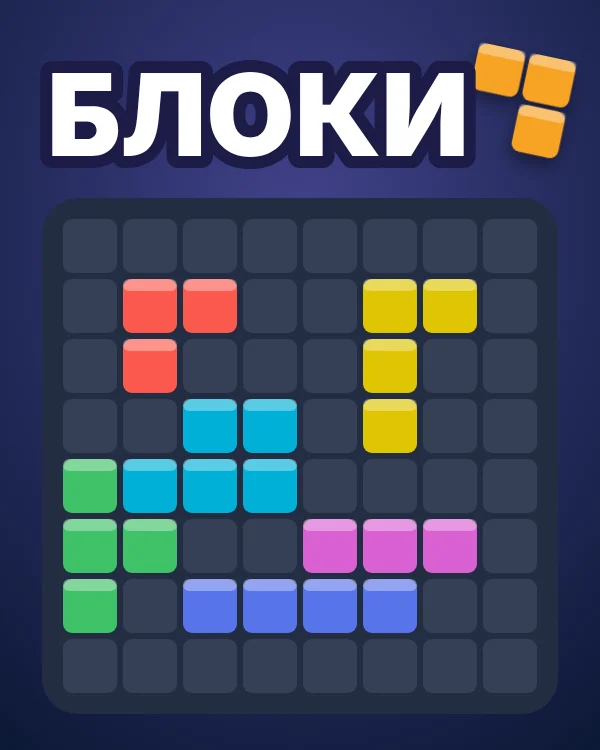
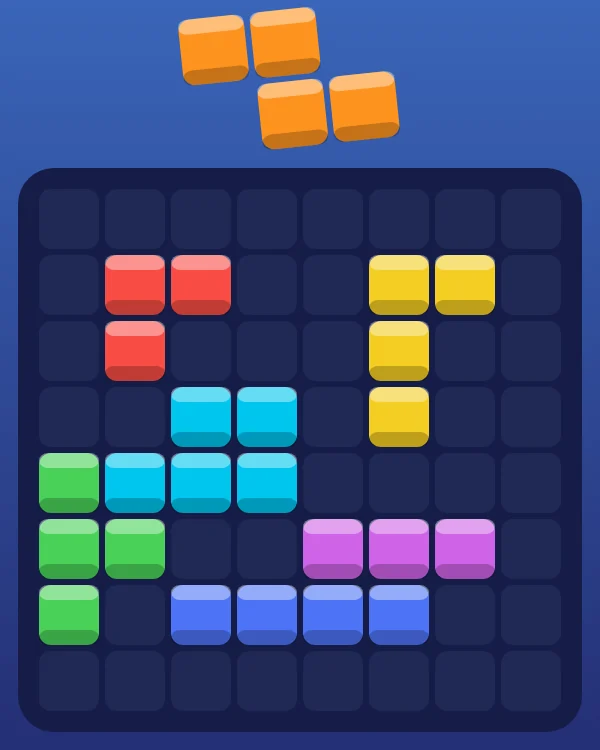
Блоки: удобные фигуры при тесноте, только перетаскивание, вид как в Block Blast, обложка без надписи
- Когда места мало (меньше 34 свободных клеток) или случайные фигуры не встают, выдаются удобные: все три помещаются по очереди, лучше — закрывающие линии
- Управление только перетаскиванием (палец или мышь), клавиатурное управление убрано
- Вид: синий фон, тёмно-синее поле, объёмные кубики с бликом, крупный счёт по центру, рекорд с короной, зелёные кнопки; одинаково в светлой и тёмной теме
- Обложка: только блоки, без слова; над полем названия нет

Claude-Session: https://claude.ai/code/session_01Q8vS7bQC82bwrtDSY1LVK3

diff --git a/games/blocks/ui.js b/games/blocks/ui.js
@@ -2,14 +2,14 @@
 // Все надписи берутся из словаря (games/blocks/ru.js) по ключам games.blocks.*.
 // Поле и лоток рисуются один раз при входе в партию, дальше меняются только классы клеток (перетаскивание идёт без перерисовки страницы).
 // Перетаскивание: фигура едет над пальцем (на сенсорном экране выше на две клетки, чтобы её было видно), на поле — тень и подсветка линий.
-// Клавиатура: 1–3 — выбрать фигуру, стрелки — двигать, Enter — поставить, Esc — отменить.
+// Управление только перетаскиванием (палец или мышь), как в Block Blast. Вид игры свой, синий, в любой теме сайта.
 var CATALOG_URL = '../../index.html';
 var SAVE_KEY = 'game:blocks:save', BEST_KEY = 'game:blocks:best';
 var B = window.Blocks, W = window.PlatformWallet, N = B.SIZE;
 var tr = function (key, params) { return window.I18n.t('games.blocks.' + key, params); };
 
 var appEl = document.getElementById('app');
-var app = { screen: 'start', modal: null, game: null, best: num(window.PlatformStorage.get(BEST_KEY, 0)), toast: null, sel: -1, cur: { x: 0, y: 0 } };
+var app = { screen: 'start', modal: null, game: null, best: num(window.PlatformStorage.get(BEST_KEY, 0)), toast: null };
 var drag = null;                 // { slot, el, dx, dy, x, y, ok, pointerId }
 
 function num(v) { v = Number(v); return isFinite(v) && v >= 0 ? Math.floor(v) : 0; }
@@ -22,13 +22,6 @@ var GRID_SVG = '<svg viewBox="0 0 24 24" fill="none" stroke="currentColor" strok
   '<rect x="4" y="4" width="6.5" height="6.5" rx="2"/><rect x="13.5" y="4" width="6.5" height="6.5" rx="2"/>' +
   '<rect x="4" y="13.5" width="6.5" height="6.5" rx="2"/><rect x="13.5" y="13.5" width="6.5" height="6.5" rx="2"/></svg>';
 function catalogLinkHtml() { return '<a class="theme-btn" href="' + CATALOG_URL + '" data-leave aria-label="' + esc(tr('toCatalog')) + '" title="' + esc(tr('toCatalog')) + '">' + GRID_SVG + '</a>'; }
-function themeButtonHtml() {
-  var dark = window.PlatformTheme.isDark();
-  var icon = dark
-    ? '<svg viewBox="0 0 24 24" fill="none" stroke="currentColor" stroke-width="2" stroke-linecap="round" aria-hidden="true"><circle cx="12" cy="12" r="4"/><path d="M12 2v2M12 20v2M4.9 4.9l1.4 1.4M17.7 17.7l1.4 1.4M2 12h2M20 12h2M4.9 19.1l1.4-1.4M17.7 6.3l1.4-1.4"/></svg>'
-    : '<svg viewBox="0 0 24 24" fill="none" stroke="currentColor" stroke-width="2" stroke-linecap="round" stroke-linejoin="round" aria-hidden="true"><path d="M21 13.2A8.5 8.5 0 1 1 10.8 3a6.7 6.7 0 0 0 10.2 10.2z"/></svg>';
-  return '<button class="theme-btn" data-act="theme" aria-label="' + esc(window.I18n.t(dark ? 'theme.toLight' : 'theme.toDark')) + '">' + icon + '</button>';
-}
 function balanceChipHtml() {
   var now = W.getBalance(), seen = W.shownBalance();
   return '<div class="bal" aria-label="' + esc(tr('balance', { n: fmtNum(now), unit: window.I18n.plural(now, 'wallet.unit') })) + '"><span class="coin" aria-hidden="true"></span><b data-bal>' + fmtNum(seen) + '</b></div>';
@@ -37,7 +30,7 @@ function balanceChipHtml() {
 // ===== Партия =====
 function loadSaved() { try { return B.sanitize(window.PlatformStorage.get(SAVE_KEY, null)); } catch (e) { return null; } }
 function save() { if (app.game && !app.game.over) window.PlatformStorage.set(SAVE_KEY, B.plain(app.game)); else window.PlatformStorage.remove(SAVE_KEY); }
-function newGame() { app.game = B.create(); app.modal = null; app.toast = null; app.sel = -1; save(); }
+function newGame() { app.game = B.create(); app.modal = null; app.toast = null; save(); }
 function noteBest() { if (app.game.score > app.best) { app.best = app.game.score; window.PlatformStorage.set(BEST_KEY, app.best); } }
 // Награда за очки 1000, 2500, 5000 — один раз за партию каждая; уровень нужен серверу, чтобы выдать её по своей таблице
 function rewardMilestones() {
@@ -59,7 +52,7 @@ function placeAt(slot, x, y) {
   var colors = before.grid.slice();                       // цвета клеток до очистки (вместе с только что поставленной фигурой)
   r.placed.forEach(function (i) { colors[i] = piece.color; });
   if (before.moves === 0) { W.markPlayed(); W.countPlay('blocks'); }      // партия началась с первого хода
-  app.game = r.state; app.sel = -1;
+  app.game = r.state;
   noteBest(); rewardMilestones(); save();
   paintBoard({ placed: r.placed, cleared: r.cleared.cells, colors: colors });
   paintTray(); renderHud();
@@ -72,7 +65,7 @@ function placeAt(slot, x, y) {
 var LOGO = '<div class="logo" aria-hidden="true">' + [1, 1, 0, 3, 0, 1, 2, 3, 0, 2, 2, 3].map(function (c) { return '<i class="' + (c ? 'b c' + c : '') + '"></i>'; }).join('') + '</div>';
 function startHtml() {
   var saved = app.game && !app.game.over && app.game.moves > 0, rw = W.CONFIG.rewards.blocks;
-  return '<div class="start"><div class="brand-row"><div class="top-actions">' + catalogLinkHtml() + '</div><div class="top-actions">' + themeButtonHtml() + '</div></div>' +
+  return '<div class="start"><div class="brand-row"><div class="top-actions">' + catalogLinkHtml() + '</div></div>' +
     '<div class="hero">' + LOGO + '<h1>' + esc(tr('title')) + '</h1><p class="muted-text">' + esc(tr('tagline')) + '</p></div>' +
     '<div class="scores"><div class="score-box"><small>' + esc(tr('best')) + '</small><b>' + fmtNum(app.best) + '</b></div>' +
       (saved ? '<div class="score-box"><small>' + esc(tr('saved')) + '</small><b>' + fmtNum(app.game.score) + '</b></div>' : '') + '</div>' +
@@ -85,41 +78,36 @@ function gameHtml() {
   var cells = '';
   for (var i = 0; i < N * N; i++) cells += '<i data-c="' + i + '"></i>';
   return '<div class="topbar"><div class="top-actions"><button class="theme-btn" data-act="menu" aria-label="' + esc(tr('toMenu')) + '">←</button></div>' +
-      '<div class="game-title">' + esc(tr('title')) + '</div>' +
       '<div class="top-actions" data-top>' + topActionsHtml() + '</div></div>' +
     '<div class="hud" data-hud></div>' +
     '<div class="board-wrap"><div class="board" role="application" tabindex="0" aria-label="' + esc(tr('board.label')) + '" aria-describedby="board-live">' + cells + '<div class="fx" aria-hidden="true"></div></div></div>' +
     '<div class="tray" role="group" aria-label="' + esc(tr('tray.label')) + '">' + [0, 1, 2].map(function (k) { return '<button class="slot" data-slot="' + k + '"></button>'; }).join('') + '</div>' +
     '<div class="msg" data-msg></div><div class="live" id="board-live" aria-live="polite"></div>';
 }
-function topActionsHtml() { return balanceChipHtml() + '<button class="theme-btn" data-act="rules" aria-label="' + esc(tr('rules')) + '">?</button>' + themeButtonHtml(); }
+function topActionsHtml() { return balanceChipHtml() + '<button class="theme-btn" data-act="rules" aria-label="' + esc(tr('rules')) + '">?</button><button class="theme-btn" data-act="restart" aria-label="' + esc(tr('newGame')) + '" title="' + esc(tr('newGame')) + '">↻</button>'; }
 function renderHud() {
   var h = appEl.querySelector('[data-hud]');
   if (!h || !app.game) return;
   var g = app.game;
-  h.innerHTML = '<div class="score-box"><small>' + esc(tr('score')) + '</small><b>' + fmtNum(g.score) + '</b></div>' +
-    '<div class="score-box"><small>' + esc(tr('best')) + '</small><b>' + fmtNum(app.best) + '</b></div>' +
-    (g.combo > 1 ? '<div class="combo" aria-label="' + esc(tr('combo.label', { n: g.combo })) + '">×' + g.combo + '</div>' : '') +
-    '<button class="btn-secondary small" data-act="restart">' + esc(tr('newGame')) + '</button>';
+  h.innerHTML = '<div class="best" aria-label="' + esc(tr('best') + ': ' + app.best) + '"><span class="crown" aria-hidden="true">♛</span>' + fmtNum(app.best) + '</div>' +
+    '<div class="score" aria-label="' + esc(tr('score') + ': ' + g.score) + '">' + fmtNum(g.score) + '</div>' +
+    '<div class="combo-slot">' + (g.combo > 1 ? '<span class="combo" aria-label="' + esc(tr('combo.label', { n: g.combo })) + '">' + esc(tr('combo', { n: g.combo })) + '</span>' : '') + '</div>';
   // сообщение о награде — под фигурами, на месте подсказки (поле не закрывает)
   var m = appEl.querySelector('[data-msg]');
   if (m) m.innerHTML = app.toast ? '<div class="toast' + (app.toast.dim ? ' dim' : '') + '" role="status">' + esc(app.toast.text) + '</div>'
-    : '<p class="hint-touch muted-text">' + esc(tr('hint.touch')) + '</p><p class="hint-keys muted-text">' + esc(tr('hint.keys')) + '</p>';
+    : '<p class="hint">' + esc(tr('hint')) + '</p>';
 }
 // Поле: занятые клетки цветом; при перетаскивании — тень фигуры и подсветка линий, которые исчезнут
 function paintBoard(anim) {
   var cells = appEl.querySelectorAll('.board [data-c]'), g = app.game.grid;
-  var ghost = {}, clear = {}, bad = false, dist = {};
-  var target = drag && drag.slot >= 0 ? drag : (app.sel >= 0 ? { slot: app.sel, x: app.cur.x, y: app.cur.y, kb: true } : null);
+  var ghost = {}, clear = {}, dist = {};
+  var target = drag && drag.slot >= 0 ? drag : null;
   if (target && target.x !== null) {
     var p = app.game.tray[target.slot], pv = p ? B.preview(g, p, target.x, target.y) : null;
     if (pv) {
       p.cells.forEach(function (c) { ghost[(target.y + c[1]) * N + target.x + c[0]] = p.color; });
       pv.rows.forEach(function (r) { for (var c = 0; c < N; c++) clear[r * N + c] = true; });
       pv.cols.forEach(function (c) { for (var r = 0; r < N; r++) clear[r * N + c] = true; });
-    } else if (target.kb && p) {
-      p.cells.forEach(function (c) { var x = target.x + c[0], y = target.y + c[1]; if (x < N && y < N) ghost[y * N + x] = p.color; });
-      bad = true;
     }
   }
   if (anim && anim.cleared && anim.cleared.length) {
@@ -131,9 +119,9 @@ function paintBoard(anim) {
   for (var i = 0; i < cells.length; i++) {
     var el = cells[i], v = g[i], cls = '';
     if (v) cls = 'b c' + v;
-    else if (ghost[i]) cls = 'ghost c' + ghost[i] + (bad ? ' bad' : '');
+    else if (ghost[i]) cls = 'ghost c' + ghost[i];
     if (v && clear[i]) cls += ' will';
-    if (ghost[i] && clear[i] && !bad) cls += ' will';
+    if (ghost[i] && clear[i]) cls += ' will';
     if (anim && anim.placed && anim.placed.indexOf(i) >= 0 && v) cls += ' pop';
     el.className = cls;
     el.style.animationDelay = '';
@@ -177,9 +165,8 @@ function paintTray() {
     var fits = p && B.fitsAnywhere(app.game.grid, p);
     el.innerHTML = p ? pieceHtml(p, true) : '';
     el.disabled = !p;
-    el.className = 'slot' + (p && !fits ? ' nofit' : '') + (app.sel === k ? ' sel' : '') + (drag && drag.slot === k ? ' lifted' : '');
+    el.className = 'slot' + (p && !fits ? ' nofit' : '') + (drag && drag.slot === k ? ' lifted' : '');
     el.setAttribute('aria-label', p ? tr(fits ? 'tray.piece' : 'tray.nofit', { n: k + 1, c: p.cells.length }) : tr('tray.empty', { n: k + 1 }));
-    el.setAttribute('aria-pressed', String(app.sel === k));
   }
 }
 
@@ -223,7 +210,7 @@ function render() {
   if (app.screen === 'game') { paintBoard(); paintTray(); renderHud(); }
   renderModal();
 }
-function openGame() { app.screen = 'game'; app.modal = app.game.over ? 'over' : null; app.sel = -1; render(); }
+function openGame() { app.screen = 'game'; app.modal = app.game.over ? 'over' : null; render(); }
 function toMenu() { cancelDrag(); app.screen = 'start'; app.modal = null; render(); }
 
 // ===== Перетаскивание =====
@@ -239,7 +226,6 @@ function startDrag(slot, e) {
   var touch = e.pointerType !== 'mouse';
   // фигура едет над пальцем: её середина по горизонтали под пальцем, а низ — выше пальца на клетку (на сенсорном экране)
   drag = { slot: slot, el: el, w: s.w * size, h: s.h * size, lift: touch ? s.h * size + size * 1.2 : s.h * size / 2, x: null, y: null, pointerId: e.pointerId };
-  app.sel = -1;
   moveDrag(e.clientX, e.clientY);
   paintTray();
 }
@@ -287,29 +273,9 @@ appEl.addEventListener('click', function (e) {
   }
 });
 document.addEventListener('keydown', function (e) {
-  if (e.key === 'Escape') {
-    if (app.modal && app.modal !== 'over') { app.modal = null; renderModal(); return; }
-    if (app.sel >= 0) { app.sel = -1; paintBoard(); paintTray(); }
-    return;
-  }
-  if (app.screen !== 'game' || app.modal || !app.game || e.altKey || e.ctrlKey || e.metaKey) return;
-  if (/^[1-3]$/.test(e.key)) {
-    var k = Number(e.key) - 1;
-    if (app.game.tray[k]) { app.sel = app.sel === k ? -1 : k; app.cur = { x: 0, y: 0 }; paintBoard(); paintTray(); }
-    e.preventDefault(); return;
-  }
-  if (app.sel < 0) return;
-  var p = app.game.tray[app.sel], s = B.sizeOf(p), mv = { ArrowLeft: [-1, 0], ArrowRight: [1, 0], ArrowUp: [0, -1], ArrowDown: [0, 1] }[e.key];
-  if (mv) {
-    app.cur.x = Math.max(0, Math.min(N - s.w, app.cur.x + mv[0])); app.cur.y = Math.max(0, Math.min(N - s.h, app.cur.y + mv[1]));
-    paintBoard(); e.preventDefault();
-  } else if (e.key === 'Enter' || e.key === ' ') {
-    e.preventDefault();
-    if (!placeAt(app.sel, app.cur.x, app.cur.y)) { var b = appEl.querySelector('.board'); if (b && !reduced()) { b.classList.remove('nope'); void b.offsetWidth; b.classList.add('nope'); } }
-  }
+  if (e.key === 'Escape' && app.modal && app.modal !== 'over') { app.modal = null; renderModal(); }
 });
 
-window.PlatformTheme.onChange(function () { render(); });
 W.onShown(function (v) { var els = appEl.querySelectorAll('.bal [data-bal]'); for (var i = 0; i < els.length; i++) els[i].textContent = fmtNum(v); });
 window.addEventListener('resize', function () { cancelDrag(); });
 app.game = loadSaved();

diff --git a/games/blocks/logic.js b/games/blocks/logic.js
@@ -67,20 +67,76 @@
     for (var y = 0; y < N; y++) for (var x = 0; x < N; x++) if (canPlace(grid, piece, x, y)) return true;
     return false;
   }
-  // Новые три фигуры: случайные, но хоть одна должна помещаться, если такая вообще бывает (иначе партия кончалась бы внезапно)
+  // Поставить фигуру на копию поля и убрать заполненные линии → { grid, lines }
+  function applyVirtual(grid, piece, x, y) {
+    var g = grid.slice(), lines = 0, k, j, full;
+    piece.cells.forEach(function (c) { g[(y + c[1]) * N + x + c[0]] = 1; });
+    var clear = {};
+    for (k = 0; k < N; k++) {
+      full = true; for (j = 0; j < N; j++) if (!g[k * N + j]) full = false;
+      if (full) { lines++; for (j = 0; j < N; j++) clear[k * N + j] = true; }
+      full = true; for (j = 0; j < N; j++) if (!g[j * N + k]) full = false;
+      if (full) { lines++; for (j = 0; j < N; j++) clear[j * N + k] = true; }
+    }
+    Object.keys(clear).forEach(function (i) { g[i] = 0; });
+    return { grid: g, lines: lines };
+  }
+  // Лучшее место для фигуры: больше очищенных линий, потом — ближе к уже занятым клеткам (не дробит поле). null — никуда не помещается
+  function bestSpot(grid, piece) {
+    var best = null;
+    for (var y = 0; y < N; y++) for (var x = 0; x < N; x++) {
+      if (!canPlace(grid, piece, x, y)) continue;
+      var r = applyVirtual(grid, piece, x, y), touch = 0;
+      piece.cells.forEach(function (c) {
+        var cx = x + c[0], cy = y + c[1];
+        [[1, 0], [-1, 0], [0, 1], [0, -1]].forEach(function (d) { var nx = cx + d[0], ny = cy + d[1]; if (nx < 0 || ny < 0 || nx >= N || ny >= N || grid[ny * N + nx]) touch++; });
+      });
+      var v = r.lines * 100 + touch;
+      if (!best || v > best.v) best = { v: v, x: x, y: y, grid: r.grid, lines: r.lines };
+    }
+    return best;
+  }
+  // Можно ли поставить все фигуры по очереди (в каком-нибудь порядке), каждую на лучшее место
+  function solvable(grid, pieces) {
+    if (!pieces.length) return true;
+    return pieces.some(function (p, i) {
+      var spot = bestSpot(grid, p);
+      return spot && solvable(spot.grid, pieces.slice(0, i).concat(pieces.slice(i + 1)));
+    });
+  }
+  function makePiece(shape, color) { return { id: shape.id, cells: shape.cells.map(function (c) { return c.slice(); }), color: color }; }
+  // Удобный набор, когда места мало: каждая следующая фигура помещается после предыдущих, лучше всего — та, что закрывает линии
+  function helpfulTray(state, rng) {
+    var grid = state.grid, tray = [];
+    for (var k = 0; k < 3; k++) {
+      var options = [];
+      SHAPES.forEach(function (sh) {
+        var spot = bestSpot(grid, sh);
+        if (spot) options.push({ sh: sh, spot: spot, v: spot.lines * 3 + sh.cells.length * 0.2 + rng() * 1.5 });
+      });
+      if (!options.length) break;
+      options.sort(function (a, b) { return b.v - a.v; });
+      var pick = options[Math.floor(rng() * Math.min(3, options.length))];       // из трёх лучших — чтобы наборы не повторялись
+      tray.push(makePiece(pick.sh, randomPiece(state, rng).color));
+      grid = pick.spot.grid;
+    }
+    while (tray.length < 3) tray.push(randomPiece(state, rng));
+    // порядок в лотке перемешиваем: удобная фигура не всегда слева
+    for (var i = tray.length - 1; i > 0; i--) { var j = Math.floor(rng() * (i + 1)), t = tray[i]; tray[i] = tray[j]; tray[j] = t; }
+    return tray;
+  }
+  // Новые три фигуры. Пока места много — случайные (но все три должны вместе помещаться);
+  // когда места мало (меньше TIGHT свободных клеток) или случайные не помещаются — удобные: те, что точно встанут и закрывают линии
+  var TIGHT = 34;
   function refill(state, rng) {
-    var tray = null;
-    for (var attempt = 0; attempt < 30; attempt++) {
-      var t = [randomPiece(state, rng), randomPiece(state, rng), randomPiece(state, rng)];
-      if (t.some(function (p) { return fitsAnywhere(state.grid, p); })) { tray = t; break; }
-      tray = tray || t;
+    var free = state.grid.filter(function (v) { return !v; }).length;
+    if (free >= TIGHT) {
+      for (var attempt = 0; attempt < 12; attempt++) {
+        var t = [randomPiece(state, rng), randomPiece(state, rng), randomPiece(state, rng)];
+        if (solvable(state.grid, t)) { state.tray = t; return; }
+      }
     }
-    if (!tray.some(function (p) { return fitsAnywhere(state.grid, p); })) {
-      // случай не подобрал: первой ставим фигуру, которая точно помещается (если такая есть)
-      var fit = SHAPES.filter(function (sh) { return fitsAnywhere(state.grid, sh); });
-      if (fit.length) { var sh = fit[Math.floor(rng() * fit.length)]; tray[0] = { id: sh.id, cells: sh.cells.map(function (c) { return c.slice(); }), color: tray[0].color }; }
-    }
-    state.tray = tray;
+    state.tray = helpfulTray(state, rng);
   }
 
   function create(rng) {
@@ -176,5 +232,5 @@
     return { rows: rows, cols: cols };
   }
 
-  root.Blocks = { SIZE: N, SHAPES: SHAPES, MILESTONES: MILESTONES, COMBO_KEEP: COMBO_KEEP, create: create, canPlace: canPlace, fitsAnywhere: fitsAnywhere, place: place, lineScore: lineScore, newMilestones: newMilestones, sanitize: sanitize, plain: plain, sizeOf: sizeOf, preview: preview };
+  root.Blocks = { solvable: solvable, TIGHT: TIGHT, SIZE: N, SHAPES: SHAPES, MILESTONES: MILESTONES, COMBO_KEEP: COMBO_KEEP, create: create, canPlace: canPlace, fitsAnywhere: fitsAnywhere, place: place, lineScore: lineScore, newMilestones: newMilestones, sanitize: sanitize, plain: plain, sizeOf: sizeOf, preview: preview };
 })(typeof window !== 'undefined' ? window : globalThis);

diff --git a/games/blocks/style.css b/games/blocks/style.css
@@ -188,7 +188,7 @@ button:focus-visible, a:focus-visible { outline: 3px solid var(--focus); outline
 .slot.nofit .piece { opacity: .35; filter: grayscale(.7); }
 .slot.sel { border-color: var(--accent); background: var(--accent-soft); }
 .slot.lifted .piece { opacity: .25; }
-.piece { --cell: min(4.2vw, 20px); display: grid; grid-template-columns: repeat(var(--w), var(--cell)); grid-template-rows: repeat(var(--h), var(--cell)); gap: 2px; pointer-events: none; }
+.piece { --cell: min(5vw, 24px); display: grid; grid-template-columns: repeat(var(--w), var(--cell)); grid-template-rows: repeat(var(--h), var(--cell)); gap: 2px; pointer-events: none; }
 .piece i { border-radius: 4px; }
 .piece i:not(.b) { visibility: hidden; }
 .drag { position: fixed; left: 0; top: 0; z-index: 50; pointer-events: none; will-change: transform; }
@@ -204,3 +204,52 @@ button:focus-visible, a:focus-visible { outline: 3px solid var(--focus); outline
 @media (prefers-reduced-motion: reduce) {
   *, *::before, *::after { transition: none !important; animation: none !important; scroll-behavior: auto !important; }
 }
+
+/* ===== Вид как в Block Blast: синий фон, тёмно-синее поле, яркие объёмные кубики. Одинаковый в светлой и тёмной теме сайта ===== */
+body {
+  --bg: oklch(0.42 0.13 268); --surface: oklch(0.33 0.09 270); --ink: oklch(0.98 0.01 260); --muted: oklch(0.85 0.04 265); --line: oklch(0.5 0.1 268);
+  --accent: oklch(0.8 0.15 85); --accent-ink: oklch(0.25 0.06 70); --accent-soft: oklch(0.38 0.1 270);
+  --game-shadow: 0 6px 18px oklch(0.15 0.08 270 / .45); --focus: oklch(0.88 0.15 90); --overlay: oklch(0.12 0.06 270 / .7);
+  --board: oklch(0.25 0.08 272); --slot: oklch(0.3 0.08 272); --slot-line: oklch(0.34 0.08 272);
+  --c1: oklch(0.66 0.21 27); --c2: oklch(0.76 0.17 60); --c3: oklch(0.86 0.17 95); --c4: oklch(0.76 0.2 145); --c5: oklch(0.76 0.14 220); --c6: oklch(0.6 0.2 268); --c7: oklch(0.68 0.21 320);
+  background: linear-gradient(180deg, oklch(0.5 0.14 262), oklch(0.36 0.12 272)) fixed; color: var(--ink); color-scheme: dark;
+}
+.muted-text, .hint { color: var(--muted); }
+.theme-btn { background: oklch(1 0 0 / .12); border-color: oklch(1 0 0 / .22); color: var(--ink); }
+.bal { background: oklch(0.2 0.07 272 / .55); border-color: oklch(1 0 0 / .15); color: var(--ink); }
+.btn-play { background: oklch(0.78 0.18 145); color: oklch(0.2 0.06 150); box-shadow: inset 0 -4px 0 oklch(0.55 0.15 150), 0 6px 14px oklch(0.15 0.08 270 / .4); }
+.btn-secondary { background: oklch(1 0 0 / .1); border-color: oklch(1 0 0 / .25); color: var(--ink); }
+.btn-primary { background: oklch(0.78 0.18 145); color: oklch(0.2 0.06 150); box-shadow: inset 0 -4px 0 oklch(0.55 0.15 150); }
+.score-box { background: oklch(0.2 0.07 272 / .55); box-shadow: none; }
+.dialog { background: oklch(0.3 0.09 270); color: var(--ink); }
+
+/* Счёт по центру крупно, рекорд с короной слева, комбо справа */
+.hud { display: grid; grid-template-columns: 1fr auto 1fr; align-items: center; min-height: 64px; gap: 8px; }
+.best { justify-self: start; display: inline-flex; align-items: center; gap: 6px; font-weight: 800; font-size: 18px; color: oklch(0.88 0.13 90); font-variant-numeric: tabular-nums; }
+.crown { font-size: 20px; line-height: 1; }
+.score { font-size: clamp(40px, 12vw, 56px); font-weight: 900; line-height: 1; font-variant-numeric: tabular-nums; text-shadow: 0 3px 0 oklch(0.2 0.08 272 / .6); }
+.combo-slot { justify-self: end; }
+.combo { display: inline-block; padding: 4px 12px; border-radius: 999px; background: linear-gradient(180deg, oklch(0.88 0.17 90), oklch(0.75 0.17 65)); color: oklch(0.3 0.08 50); font-weight: 900; font-size: 16px; box-shadow: inset 0 -3px 0 oklch(0.6 0.16 55); animation: pop-in .25s ease both; }
+
+/* Поле и кубики: блик сверху, тень снизу, светлая рамка */
+.board { background: var(--board); box-shadow: inset 0 0 0 3px oklch(0.2 0.07 272), 0 10px 26px oklch(0.12 0.08 270 / .5); border-radius: 12px; }
+.board > i { background: var(--slot); box-shadow: inset 0 2px 0 oklch(0 0 0 / .18); border-radius: 4px; }
+.b {
+  background: linear-gradient(180deg, color-mix(in oklab, var(--cc) 78%, white) 0%, var(--cc) 45%, color-mix(in oklab, var(--cc) 82%, black) 100%);
+  box-shadow: inset 0 3px 0 color-mix(in oklab, var(--cc) 45%, white), inset 0 -4px 0 color-mix(in oklab, var(--cc) 62%, black), inset 3px 0 0 color-mix(in oklab, var(--cc) 75%, white), inset -3px 0 0 color-mix(in oklab, var(--cc) 75%, black);
+}
+.board > i.b { background: linear-gradient(180deg, color-mix(in oklab, var(--cc) 78%, white) 0%, var(--cc) 45%, color-mix(in oklab, var(--cc) 82%, black) 100%); border-radius: 4px; }
+.board > i.ghost { background: var(--cc); opacity: .35; box-shadow: none; }
+.board > i.will { filter: brightness(1.3) saturate(1.2); box-shadow: 0 0 10px 2px oklch(0.95 0.1 95 / .7), inset 0 3px 0 oklch(1 0 0 / .45); }
+.piece i, .drag .piece i, .fx .b, .logo i { border-radius: 4px; }
+
+/* Лоток: фигуры прямо на фоне, без карточек */
+.slot { background: transparent; border: none; }
+.slot:disabled { background: transparent; border: none; }
+.slot.nofit .piece { opacity: .3; filter: grayscale(.8); }
+.hint { text-align: center; font-size: 14px; margin: 0; }
+.fx .float { color: #fff; }
+.toast { background: oklch(0.2 0.07 272 / .7); color: var(--ink); }
+.toast.dim { color: var(--muted); }
+.logo { background: var(--board); }
+.screen > .topbar { justify-content: space-between; }

diff --git a/games/blocks/ru.js b/games/blocks/ru.js
@@ -19,7 +19,7 @@
     'best': 'Рекорд',
     'saved': 'Незаконченная партия',
     'rewards.note': 'Награды за очки в партии: 1 000 — {a}, 2 500 — {b}, 5 000 — {c} аконов.',
-    'combo': 'комбо ×{n}',
+    'combo': 'Комбо {n}',
     'combo.label': 'Комбо: множитель {n}',
 
     'board.label': 'Поле 8 на 8',
@@ -27,8 +27,7 @@
     'tray.piece': 'Фигура {n}: {c} клеток. Перетащите на поле',
     'tray.nofit': 'Фигура {n}: {c} клеток, сейчас не помещается',
     'tray.empty': 'Место {n}: пусто',
-    'hint.touch': 'Перетащите фигуру на поле.',
-    'hint.keys': 'Перетащите мышью · или 1–3 выбрать фигуру, стрелки — двигать, Enter — поставить',
+    'hint': 'Перетащите фигуру на поле.',
     'live.score': 'Счёт {n}.',
     'live.cleared': 'Линия очищена.',
 
@@ -43,7 +42,7 @@
 
     'rules.title': 'Как играть',
     'rules.1.title': 'Ход',
-    'rules.1.text': 'Внизу три фигуры. Перетащите любую на свободное место поля 8×8. Когда все три поставлены, появляются новые. Поворачивать фигуры нельзя.',
+    'rules.1.text': 'Внизу три фигуры. Перетащите любую пальцем или мышью на свободное место поля 8×8. Когда все три поставлены, появляются новые. Поворачивать фигуры нельзя. Когда места мало, выпадают фигуры, которые точно помещаются.',
     'rules.2.title': 'Линии',
     'rules.2.text': 'Заполненный целиком ряд или столбец исчезает. Можно очистить несколько линий сразу — это дороже.',
     'rules.3.title': 'Очки и комбо',

diff --git a/games/blocks/tests/logic.test.js b/games/blocks/tests/logic.test.js
@@ -142,3 +142,21 @@ test('долгие случайные партии: очки не уменьша
     assert.ok(s.over);
   }
 });
+
+test('мало места: новые фигуры удобные — все три можно поставить по очереди (если на поле вообще есть куда)', () => {
+  const rng = seeded(21);
+  let tight = 0;
+  for (let k = 0; k < 120; k++) {
+    // плотное поле со свободными участками
+    const rows = []; for (let y = 0; y < 8; y++) rows.push([...'########'].map(() => (rng() < 0.62 ? '#' : '.')).join(''));
+    const s = state(rows, [piece(['#']), null, null]);
+    const free = s.grid.findIndex((v) => !v);
+    if (free < 0) continue;
+    const r = B.place(s, 0, free % 8, Math.floor(free / 8), rng);
+    const empty = r.state.grid.filter((v) => !v).length;
+    if (empty >= B.TIGHT || empty < 4) continue;
+    tight++;
+    assert.ok(B.solvable(r.state.grid, r.state.tray.filter(Boolean)), 'все три встают по очереди');
+  }
+  assert.ok(tight > 30, 'проверено тесных полей: ' + tight);
+});
